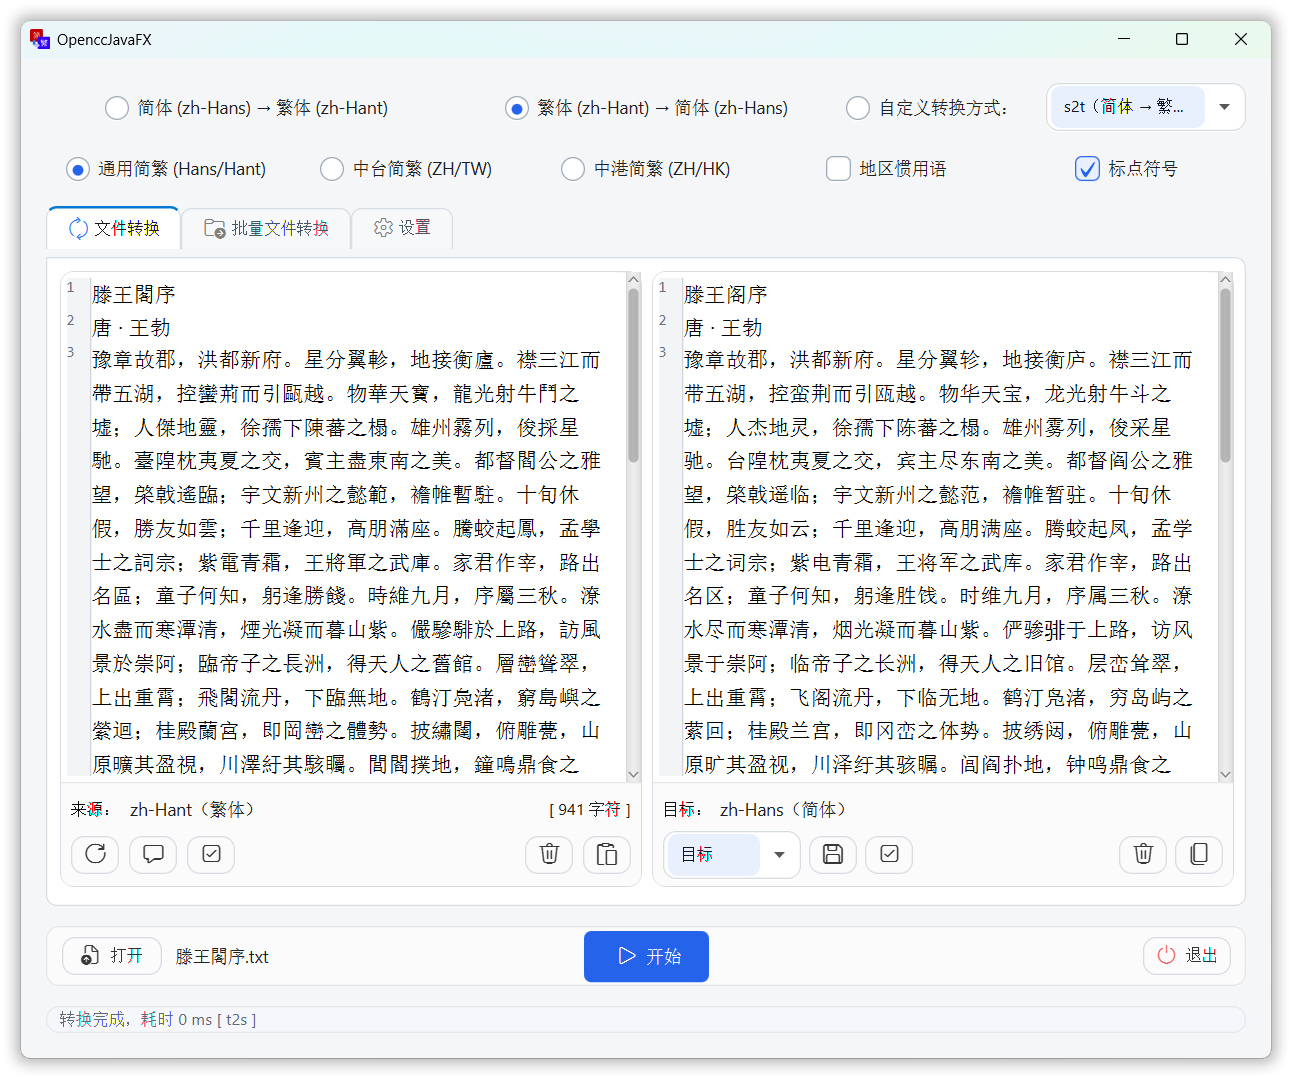
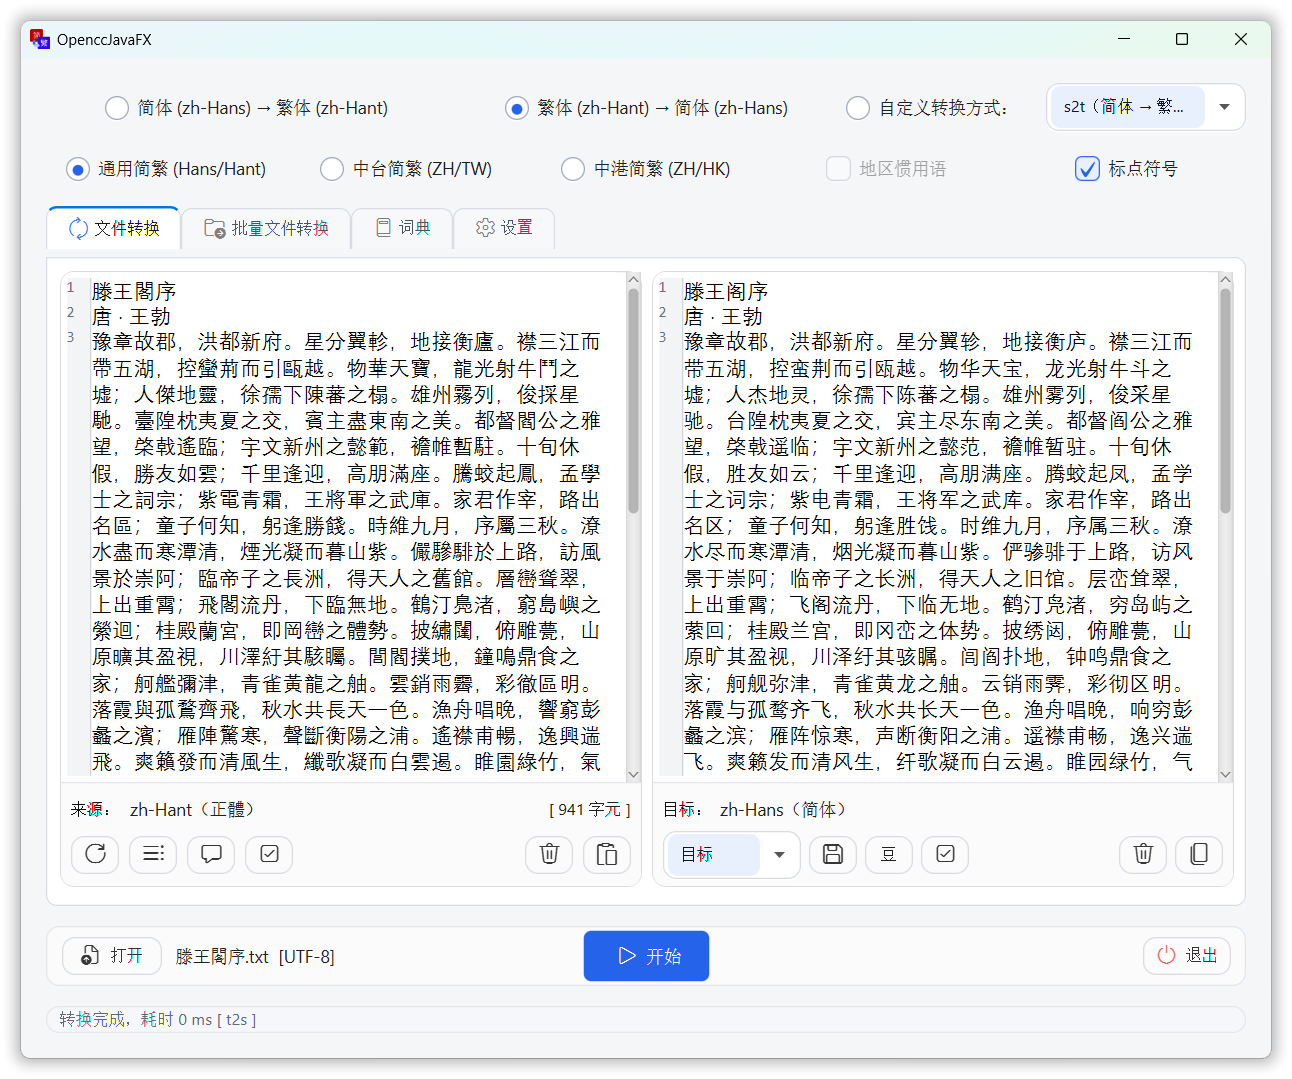
Release v1.3.0

diff --git a/README.md b/README.md
@@ -144,7 +144,6 @@ Support most **text base** file types.
 ### Batch Mode
 
 ![image02](./assets/image02.png)
-![image03](./assets/image03.png)
 
 Support most **text base** file types, **Office documents** (`.docx`, `.xlsx`, `.pptx`, `.odt`, `.ods`, `.odp`) and
 EPUB (`.epub`).
@@ -153,6 +152,10 @@ EPUB (`.epub`).
 2. Select the desired conversion configuration.
 3. Set the output folder.
 4. Click the **Start** button to begin batch conversion.
+
+### Custom Dictionary
+
+![image03](./assets/image03.png)
 
 ---
 

diff --git a/CHANGELOG.md b/CHANGELOG.md
@@ -7,7 +7,7 @@ the [Keep a Changelog](https://keepachangelog.com/en/1.0.0/) format.
 
 ---
 
-## \[1.3.0] - Unreleased
+## \[1.3.0] - 2026-11-20
 
 ### Added
 
